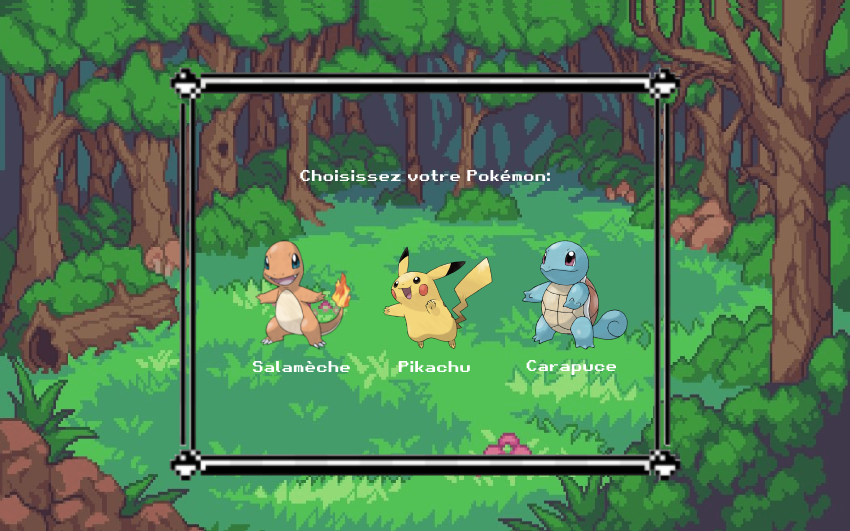
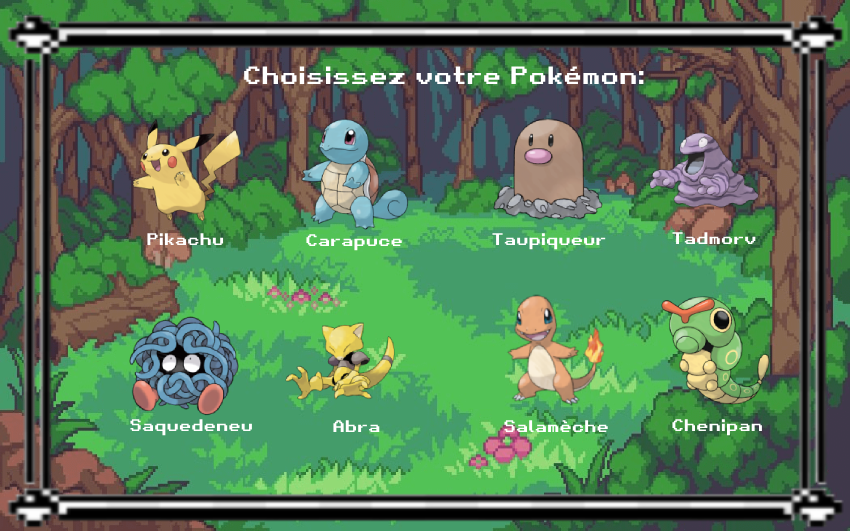
Modification du menu pour le choix du pokemon et actualisation bonne

diff --git a/choix2pokemon.py b/choix2pokemon.py
@@ -38,16 +38,45 @@ def choix2pokemon(screen):
     # Chargement de l'image pour la première pokeball et ajustement de la taille
     pokeball1_image = pygame.image.load('image/image_pokedex/pokeball.png')  
     pokeball1_image = pygame.transform.scale(pokeball1_image, (pokeball1_image.get_width() // 2, pokeball1_image.get_height() // 2))
-    pokeball1_rect = pokeball1_image.get_rect(center=(screen.get_width() // 2 - 125, screen.get_height() // 1.32))  # Décaler vers la droite
+    pokeball1_rect = pokeball1_image.get_rect(center=(screen.get_width() // 2 - 243, screen.get_height() //  1.94))  # Décaler vers la droite
     
     # Chargement de l'image pour la deuxième pokeball et ajustement de la taille
     pokeball2_image = pygame.image.load('image/image_pokedex/pokeball.png')  
     pokeball2_image = pygame.transform.scale(pokeball2_image, (pokeball2_image.get_width() // 2, pokeball2_image.get_height() // 2))
-    pokeball2_rect = pokeball2_image.get_rect(center=(screen.get_width() // 2 + 9, screen.get_height() // 1.32))  # Décaler vers la gauche
+    pokeball2_rect = pokeball2_image.get_rect(center=(screen.get_width() // 2 - 75, screen.get_height() //  1.94))  # Décaler vers la gauche
     
     pokeball3_image = pygame.image.load('image/image_pokedex/pokeball.png')  
     pokeball3_image = pygame.transform.scale(pokeball3_image, (pokeball3_image.get_width() // 2, pokeball3_image.get_height() // 2))
-    pokeball3_rect = pokeball3_image.get_rect(center=(screen.get_width() // 2 + 140, screen.get_height() // 1.32))  # Décaler vers la gauche
+    pokeball3_rect = pokeball3_image.get_rect(center=(screen.get_width() // 2 + 130, screen.get_height() // 1.94))  # Décaler vers la gauche
+
+
+    pokeball4_image = pygame.image.load('image/image_pokedex/pokeball.png')  
+    pokeball4_image = pygame.transform.scale(pokeball4_image, (pokeball4_image.get_width() // 2, pokeball4_image.get_height() // 2))
+    pokeball4_rect = pokeball4_image.get_rect(center=(screen.get_width() // 2 + 285 , screen.get_height() //  1.94))  # Décaler vers la droite
+    
+
+    pokeball5_image = pygame.image.load('image/image_pokedex/pokeball.png')  
+    pokeball5_image = pygame.transform.scale(pokeball5_image, (pokeball5_image.get_width() // 2, pokeball5_image.get_height() // 2))
+    pokeball5_rect = pokeball5_image.get_rect(center=(screen.get_width() // 2 - 243, screen.get_height() // 1.135))  # Décaler vers la droite
+    
+
+    pokeball6_image = pygame.image.load('image/image_pokedex/pokeball.png')  
+    pokeball6_image = pygame.transform.scale(pokeball6_image, (pokeball6_image.get_width() // 2, pokeball6_image.get_height() // 2))
+    pokeball6_rect = pokeball6_image.get_rect(center=(screen.get_width() // 2 -75, screen.get_height() // 1.135))  # Décaler vers la droite
+    
+
+
+    pokeball7_image = pygame.image.load('image/image_pokedex/pokeball.png')  
+    pokeball7_image = pygame.transform.scale(pokeball7_image, (pokeball7_image.get_width() // 2, pokeball7_image.get_height() // 2))
+    pokeball7_rect = pokeball7_image.get_rect(center=(screen.get_width() // 2 +130, screen.get_height() // 1.135))  # Décaler vers la droite
+    
+
+
+
+    pokeball8_image = pygame.image.load('image/image_pokedex/pokeball.png')  
+    pokeball8_image = pygame.transform.scale(pokeball8_image, (pokeball8_image.get_width() // 2, pokeball8_image.get_height() // 2))
+    pokeball8_rect = pokeball8_image.get_rect(center=(screen.get_width() // 2 + 285, screen.get_height() // 1.135))  # Décaler vers la droite
+    
     
     # Chargement du son du clic sur les boutons
     click_sound = pygame.mixer.Sound('son/son.mp3')
@@ -59,6 +88,12 @@ def choix2pokemon(screen):
         screen.blit(pokeball1_image, pokeball1_rect)  # Afficher la première pokeball
         screen.blit(pokeball2_image, pokeball2_rect)  # Afficher la deuxième pokeball
         screen.blit(pokeball3_image, pokeball3_rect)  #Afficher la troisième pokeball
+        screen.blit(pokeball4_image, pokeball4_rect)  #Afficher la quatrième pokeball
+        screen.blit(pokeball5_image, pokeball5_rect)  # Afficher la cinquième pokeball
+        screen.blit(pokeball6_image, pokeball6_rect)  # Afficher la sixième pokeball
+        screen.blit(pokeball6_image, pokeball7_rect)  # Afficher la septième pokeball
+        screen.blit(pokeball6_image, pokeball8_rect)  # Afficher la huitième pokeball
+        
         pygame.display.flip()
 
         for event in pygame.event.get():
@@ -68,12 +103,28 @@ def choix2pokemon(screen):
             elif event.type == pygame.MOUSEBUTTONDOWN:
                 if pokeball1_rect.collidepoint(event.pos):
                     click_sound.play()  # Jouez le son du clic
-                    lancer_combat(liste_pokemon[0])
+                    lancer_combat(liste_pokemon[5])
                 if pokeball2_rect.collidepoint(event.pos):
                     click_sound.play()
-                    lancer_combat(liste_pokemon[5])
+                    lancer_combat(liste_pokemon[1])
                 if pokeball3_rect.collidepoint(event.pos):
                     click_sound.play()
-                    lancer_combat(liste_pokemon[1])
+                    lancer_combat(liste_pokemon[2])
+                if pokeball4_rect.collidepoint(event.pos):
+                    click_sound.play()
+                    lancer_combat(liste_pokemon[6])
+                if pokeball5_rect.collidepoint(event.pos):
+                    click_sound.play()
+                    lancer_combat(liste_pokemon[3])
+                if pokeball6_rect.collidepoint(event.pos):
+                    click_sound.play()
+                    lancer_combat(liste_pokemon[7])
+                if pokeball7_rect.collidepoint(event.pos):
+                    click_sound.play()
+                    lancer_combat(liste_pokemon[0])
+                if pokeball8_rect.collidepoint(event.pos):
+                    click_sound.play()
+                    lancer_combat(liste_pokemon[4])
+
 
     
